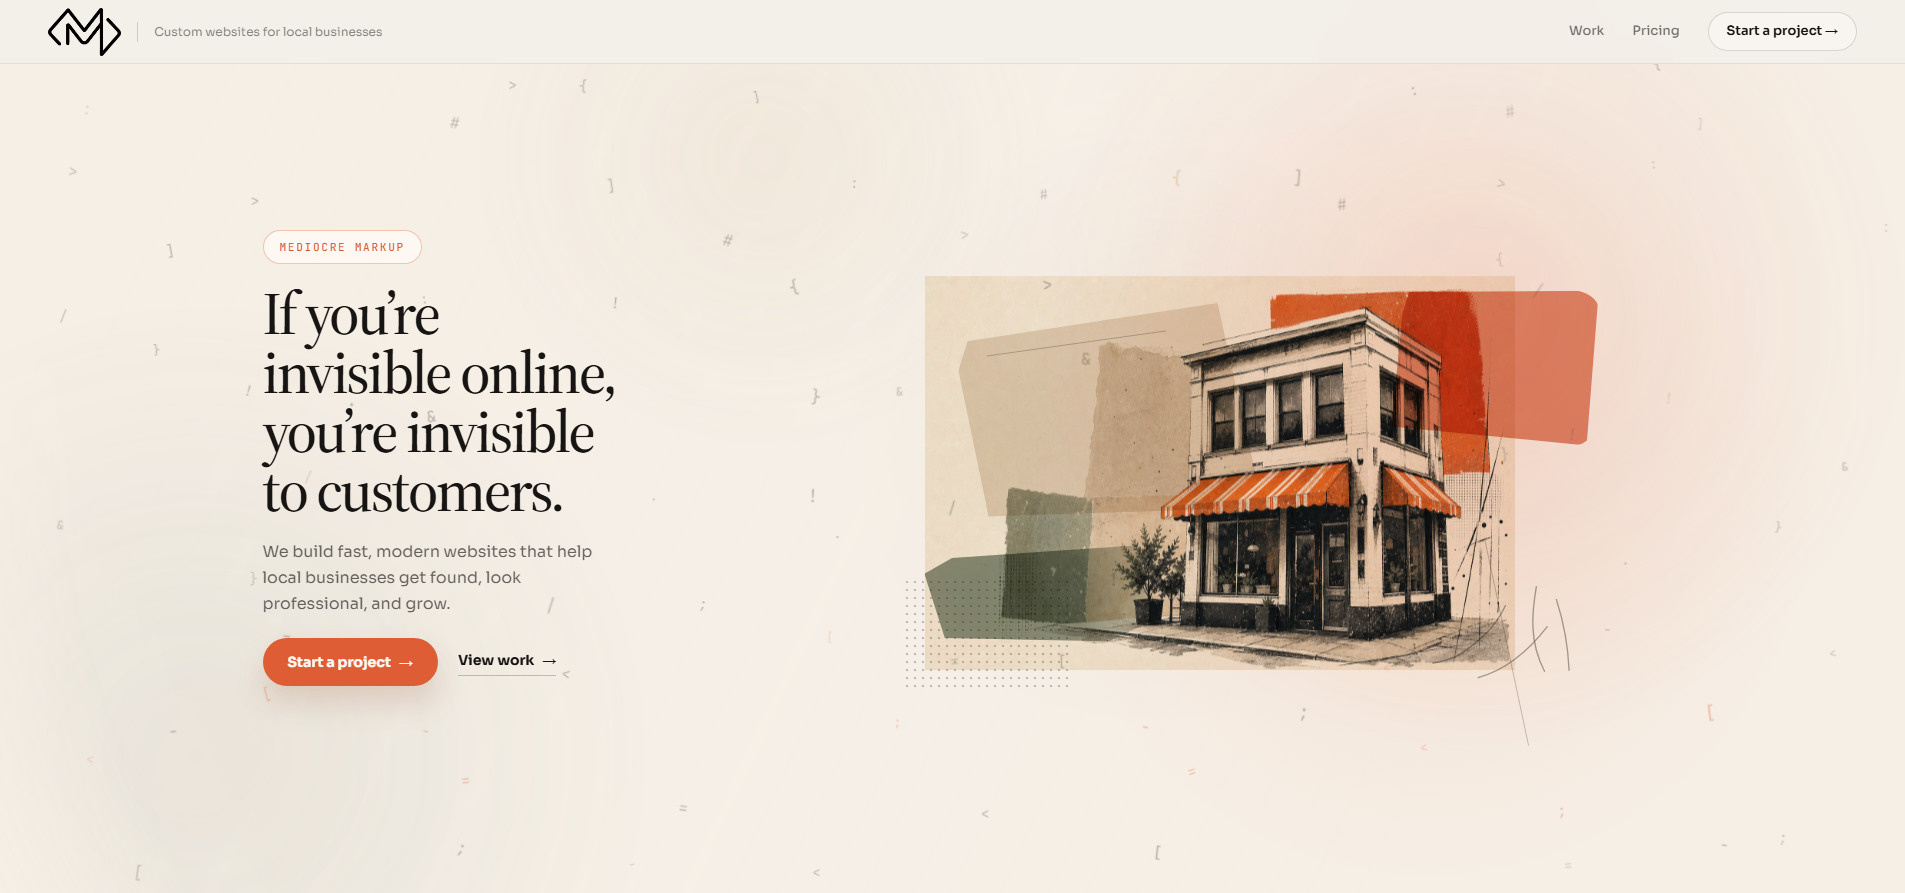
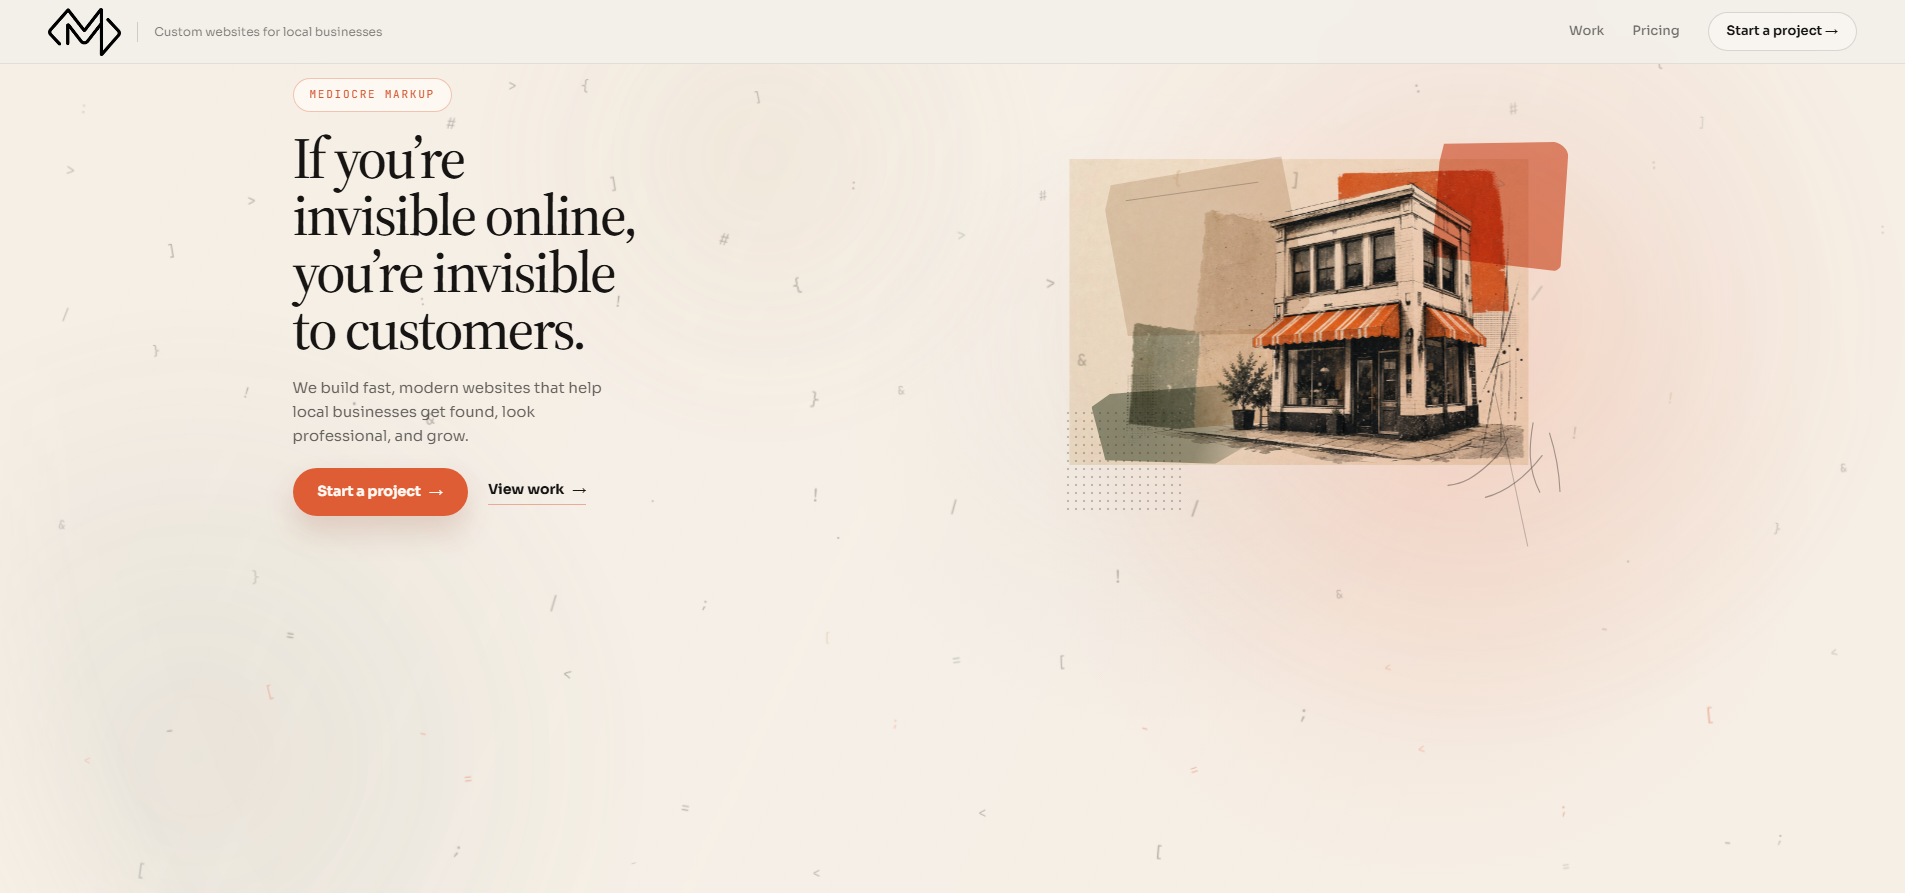
ok another one

Changed region(s): [[0.4646, 0.1512, 0.8362, 0.7559], [0.1239, 0.1512, 0.3407, 0.7861], [0.1549, 0.0907, 0.2168, 0.1209]]

diff --git a/index.html b/index.html
@@ -7447,7 +7447,7 @@
       display: flex;
       align-items: center;
       justify-content: center;
-      padding: clamp(118px, 15vh, 148px) clamp(24px, 4vw, 52px) clamp(56px, 8vh, 88px);
+      padding: clamp(92px, 10vh, 118px) clamp(24px, 4vw, 52px) clamp(28px, 3.6vh, 48px);
       background:
         radial-gradient(circle at 75% 55%, rgba(223, 93, 53, 0.10), transparent 26%),
         radial-gradient(circle at 60% 48%, rgba(23, 21, 19, 0.035), transparent 25%),
@@ -7539,9 +7539,9 @@
       position: relative;
       width: min(100%, 1380px);
       display: grid;
-      grid-template-columns: minmax(300px, 0.72fr) minmax(560px, 1.28fr);
+      grid-template-columns: minmax(320px, 0.84fr) minmax(500px, 1fr);
       align-items: center;
-      gap: clamp(28px, 4vw, 72px);
+      gap: clamp(40px, 4vw, 82px);
     }
 
     .hero-copy {
@@ -7550,7 +7550,7 @@
       display: flex;
       flex-direction: column;
       align-items: flex-start;
-      gap: 24px;
+      gap: 20px;
     }
 
     .hero-banner {
@@ -7573,7 +7573,7 @@
       max-width: none;
       color: var(--hero-ink);
       font-family: var(--font-serif);
-      font-size: clamp(42px, 5vw, 72px);
+      font-size: clamp(42px, min(4.35vw, 7vh), 68px);
       font-weight: 500;
       line-height: 0.98;
       letter-spacing: -0.04em;
@@ -7582,9 +7582,9 @@
     .hero-title .line { display: block; }
 
     .hero-lede {
-      max-width: 28ch;
+      max-width: 29ch;
       color: var(--hero-muted);
-      font-size: clamp(15px, 1.15vw, 17px);
+      font-size: clamp(15px, 1vw, 16px);
       line-height: 1.6;
     }
 
@@ -7662,7 +7662,9 @@
 
     .hero-artwork {
       position: relative;
-      min-height: min(70svh, 660px);
+      width: min(100%, 620px);
+      justify-self: end;
+      min-height: clamp(420px, min(56svh, 48vw), 540px);
     }
 
     .art-swatch,
@@ -7681,10 +7683,10 @@
     }
 
     .art-swatch.one {
-      left: 5%;
-      top: 15%;
-      width: 42%;
-      height: 48%;
+      left: 8%;
+      top: 18%;
+      width: 38%;
+      height: 42%;
       background: rgba(225, 210, 192, 0.8);
       clip-path: polygon(4% 8%, 92% 0, 100% 84%, 84% 100%, 6% 94%, 0 22%);
       border-radius: 18% 8% 14% 10% / 12% 10% 18% 14%;
@@ -7692,10 +7694,10 @@
     }
 
     .art-swatch.two {
-      right: 2%;
-      top: 8%;
-      width: 32%;
-      height: 38%;
+      right: 5%;
+      top: 12%;
+      width: 28%;
+      height: 32%;
       background: rgba(223, 93, 53, 0.72);
       clip-path: polygon(7% 4%, 100% 0, 96% 100%, 0 91%, 4% 18%);
       border-radius: 8% 14% 10% 18% / 10% 12% 16% 12%;
@@ -7703,10 +7705,10 @@
     }
 
     .art-swatch.three {
-      left: 0;
-      bottom: 13%;
-      width: 37%;
-      height: 24%;
+      left: 3%;
+      bottom: 16%;
+      width: 32%;
+      height: 20%;
       background:
         radial-gradient(circle at 20% 50%, rgba(103, 120, 101, 0.82), rgba(103, 120, 101, 0.74) 58%, rgba(103, 120, 101, 0.18) 100%);
       clip-path: polygon(0 24%, 12% 8%, 90% 0, 100% 76%, 78% 100%, 8% 92%);
@@ -7729,7 +7731,7 @@
     .hero-building {
       left: 44%;
       top: 50%;
-      width: min(700px, 100%);
+      width: min(590px, 86%);
       height: auto;
       z-index: 4;
       filter: saturate(0.96) contrast(1.03);
@@ -7758,10 +7760,10 @@
     }
 
     .art-scribble {
-      right: 0;
-      bottom: 5%;
-      width: 34%;
-      height: 26%;
+      right: 3%;
+      bottom: 8%;
+      width: 28%;
+      height: 21%;
       z-index: 6;
       opacity: 0.62;
       transform: translate(calc(var(--mx) * -0.16), calc(var(--my) * -0.16));
@@ -7790,6 +7792,7 @@
 
       .hero-artwork {
         min-height: 620px;
+        width: min(100%, 620px);
       }
     }
 
@@ -7809,6 +7812,7 @@
 
       .hero-artwork {
         min-height: 430px;
+        width: 100%;
       }
 
       .hero-building {
@@ -7837,67 +7841,69 @@
       }
     }
 
-    /* Wide-but-short desktop viewports need a calmer scale than tall previews. */
-    @media (min-width: 1500px) and (max-height: 920px) {
+    /* Compact desktop viewports: preserve the CTA and keep the artwork supportive. */
+    @media (min-width: 1101px) and (max-height: 920px) {
       .hero.hero-blueprint {
-        padding-top: clamp(88px, 10vh, 102px);
-        padding-bottom: clamp(34px, 4vh, 48px);
+        align-items: flex-start;
+        padding-top: clamp(78px, 8vh, 92px);
+        padding-bottom: clamp(20px, 2.8vh, 34px);
       }
 
       .hero-blueprint-shell {
-        width: min(100%, 1380px);
-        grid-template-columns: minmax(340px, 0.78fr) minmax(560px, 1.08fr);
-        gap: clamp(48px, 4.2vw, 90px);
+        width: min(100%, 1320px);
+        grid-template-columns: minmax(320px, 0.88fr) minmax(460px, 0.96fr);
+        gap: clamp(44px, 4vw, 76px);
       }
 
       .hero-copy {
-        gap: 20px;
+        gap: 18px;
       }
 
       .hero-title {
-        font-size: clamp(44px, 3.45vw, 60px);
+        font-size: clamp(40px, min(3.7vw, 6.5vh), 60px);
         line-height: 0.98;
       }
 
       .hero-lede {
         max-width: 30ch;
-        font-size: clamp(14px, 0.92vw, 16px);
+        font-size: clamp(14px, 0.9vw, 15px);
       }
 
       .hero-artwork {
-        min-height: min(56svh, 520px);
+        width: min(100%, 560px);
+        min-height: min(52svh, 480px);
       }
 
       .hero-building {
-        width: min(590px, 88%);
+        width: min(540px, 82%);
       }
 
       .art-swatch.one {
         left: 10%;
         top: 18%;
-        width: 38%;
-        height: 41%;
+        width: 35%;
+        height: 38%;
       }
 
       .art-swatch.two {
-        right: 6%;
+        right: 8%;
         top: 13%;
-        width: 27%;
-        height: 31%;
+        width: 24%;
+        height: 28%;
       }
 
       .art-swatch.three {
-        left: 5%;
-        bottom: 16%;
-        width: 31%;
-        height: 19%;
+        left: 7%;
+        bottom: 17%;
+        width: 28%;
+        height: 17%;
       }
 
       .art-scribble {
-        right: 4%;
-        bottom: 8%;
-        width: 27%;
-        height: 20%;
+        right: 6%;
+        bottom: 9%;
+        width: 24%;
+        height: 18%;
       }
     }
 
